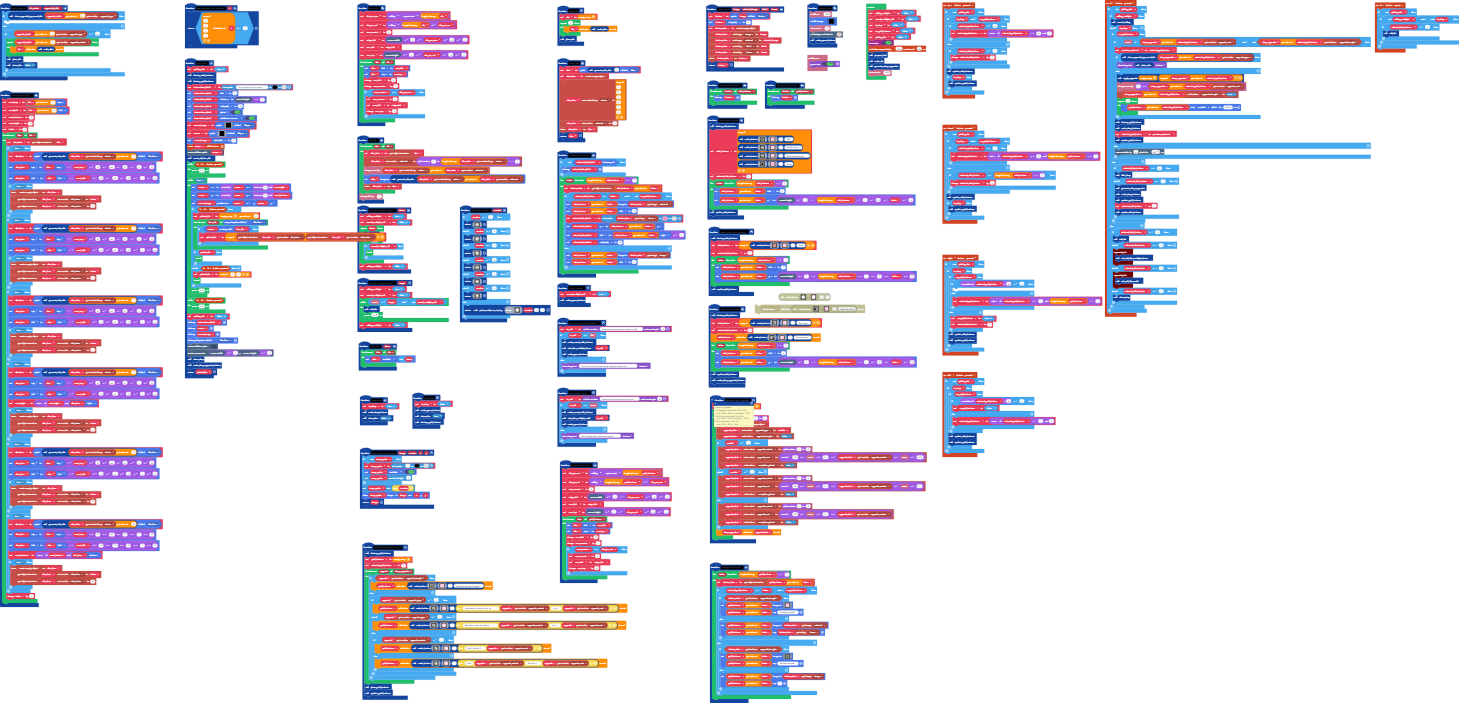
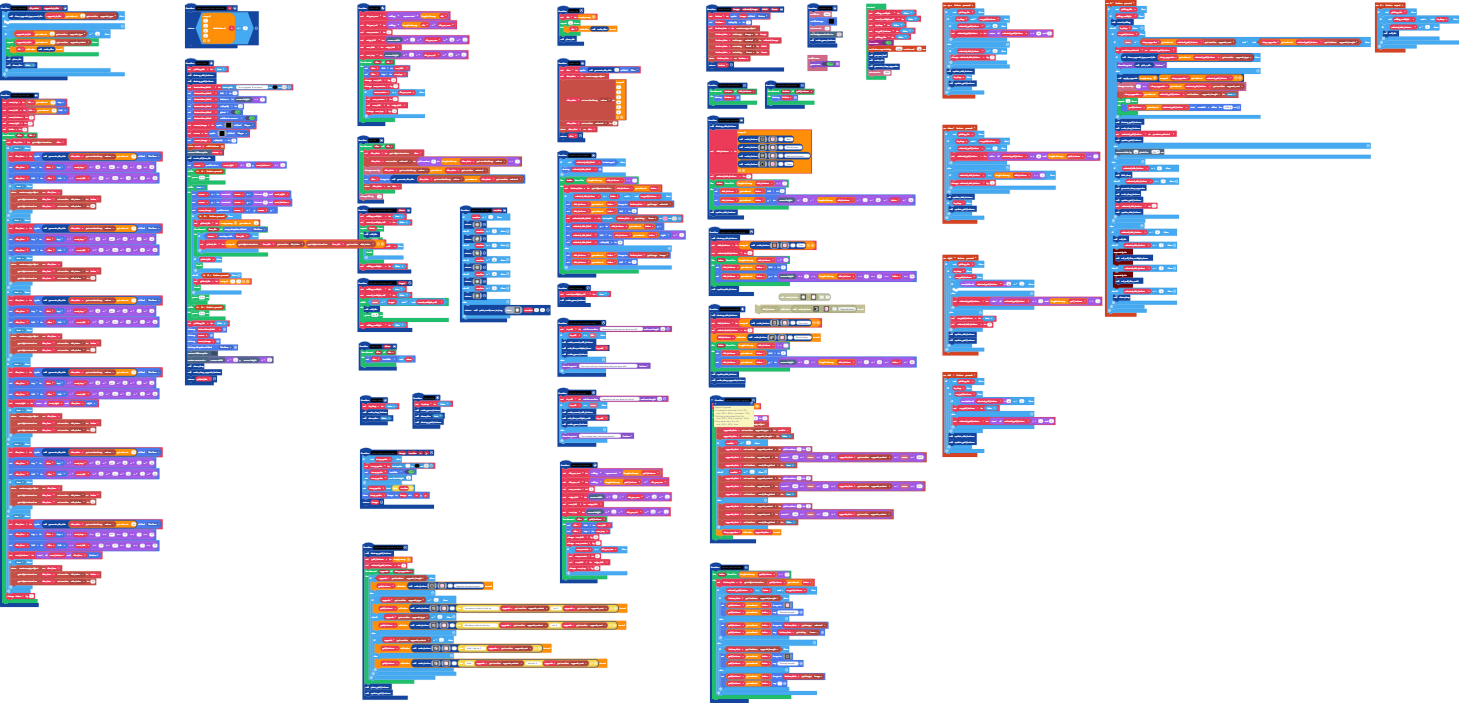
Center cursor on middle of all die in dialog

Changed region(s): [[0.1234, 0.2091, 0.2776, 0.5676], [0.0, 0.6871, 0.0617, 0.7169], [0.0308, 0.8065, 0.0617, 0.8364]]

diff --git a/main.ts b/main.ts
@@ -352,6 +352,7 @@ function pick_a_die () {
     controller.moveSprite(cursor)
     scene.cameraFollowSprite(cursor)
     create_all_face_die()
+    cursor.setPosition(most_right / 2, most_bottom / 2)
     while (controller.A.isPressed()) {
         pause(0)
     }
